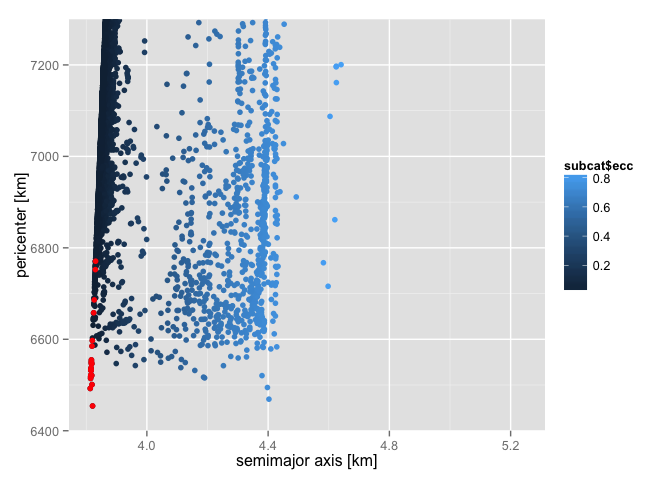
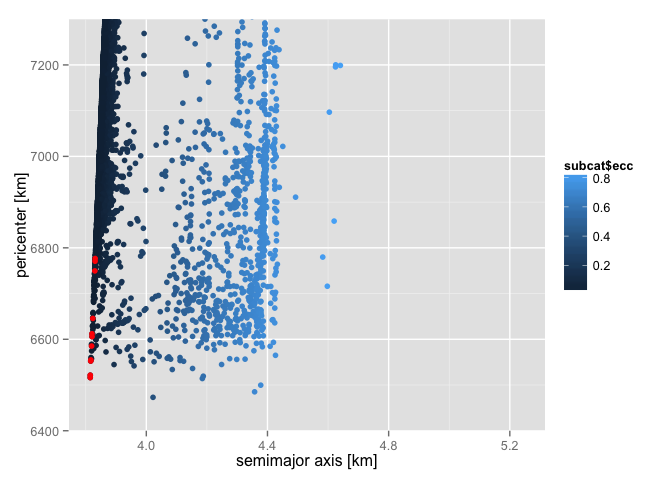
update

diff --git a/SatAnalysis.md b/SatAnalysis.md
@@ -51,13 +51,13 @@ The catalog `tle_latest.txt` is taken form space-track.org:
 
 ```
 ## 0 VANGUARD 1
-## 1 00005U 58002B   15147.38246589  .00000167  00000-0  20437-3 0  9996
-## 2 00005 034.2503 160.5335 1846720 317.2671 029.7930 10.84612969  4653
+## 1 00005U 58002B   15170.04478724  .00000352  00000-0  47355-3 0  9997
+## 2 00005 034.2454 090.7354 1846492 059.2462 317.7032 10.84627234  7118
 ## 0 VANGUARD 2
-## 1 00011U 59001A   15148.17993544  .00000483  00000-0  24104-3 0  9997
-## 2 00011 032.8754 148.0749 1469999 267.3589 075.8479 11.84944007397448
+## 1 00011U 59001A   15170.01411907  .00001030  00000-0  56263-3 0  9993
+## 2 00011 032.8679 066.2094 1468790 030.4671 337.3573 11.84984184400049
 ## =====================================================================
-## Number of objects: 15090  (no. of rwos:    45270 )
+## Number of objects: 15063  (no. of rwos:    45189 )
 ```
 
 The catalog `satcat.txt` (containing the physical parameters) comes from celestrak.com:
@@ -67,7 +67,7 @@ The catalog `satcat.txt` (containing the physical parameters) comes from celestr
 ## 1957-001B    00002  *D SPUTNIK 1                 CIS    1957-10-04  TYMSC  1958-01-03     96.1   65.0     945     227     N/A       
 ## 1957-002A    00003  *D SPUTNIK 2                 CIS    1957-11-03  TYMSC  1958-04-14    103.7   65.3    1659     211    0.0800     
 ## =====================================================================
-## Number of objects:    40666
+## Number of objects:    40696
 ```
 
 An explanation fro the variables can be found in the docs folder.
@@ -89,13 +89,13 @@ gfortran TLE2KEP.f90 -o TLE2KEP.x
 
 ```
 ## NORAD_ID       sma_meter            ecc        inc_deg       RAAN_deg       argp_deg          M_deg
-##        5    8620887.5280     0.18467200    34.25030000   160.53350000   317.26710000    29.79300000
-##       11    8127119.0581     0.14699990    32.87540000   148.07490000   267.35890000    75.84790000
-##       12    8321497.0627     0.16667160    32.90030000   329.54630000    90.77700000   288.32070000
-##       16    8817636.0510     0.20236030    34.26150000    88.22490000     9.42980000   353.90280000
-##       20    8267859.1364     0.16697420    33.34690000   282.42390000   188.42150000   168.46110000
+##        5    8620811.9400     0.18464920    34.24540000    90.73540000    59.24620000   317.70320000
+##       11    8126935.3566     0.14687900    32.86790000    66.20940000    30.46710000   337.35730000
+##       12    8321295.8205     0.16670280    32.90290000   257.84880000   198.55490000   154.63530000
+##       16    8817568.7240     0.20241200    34.26430000    31.84860000    91.78280000   291.40680000
+##       20    8267584.1866     0.16704850    33.35000000   201.84670000   308.37270000    37.79970000
 ## =====================================================================
-## Number of objects: 15090
+## Number of objects: 15063
 ```
 
 
@@ -109,7 +109,7 @@ gfortran SAT2TABLE.f90 -o SAT2TABLE.x
 ```
 ## head: satcat.fla[,1:8]: No such file or directory
 ## =====================================================================
-## Number of objects: 40666
+## Number of objects: 40696
 ```
 
 Read the data assigning the right format and merge the two catalogues (here using R)
@@ -120,19 +120,19 @@ tlecat
 ```
 
 ```
-## Source: local data frame [15,090 x 7]
+## Source: local data frame [15,063 x 7]
 ## 
 ##    NORAD_ID sma_meter       ecc inc_deg RAAN_deg argp_deg    M_deg
-## 1         5   8620888 0.1846720 34.2503 160.5335 317.2671  29.7930
-## 2        11   8127119 0.1469999 32.8754 148.0749 267.3589  75.8479
-## 3        12   8321497 0.1666716 32.9003 329.5463  90.7770 288.3207
-## 4        16   8817636 0.2023603 34.2615  88.2249   9.4298 353.9028
-## 5        20   8267859 0.1669742 33.3469 282.4239 188.4215 168.4611
-## 6        22   6969779 0.0147761 50.2828 111.7523  55.4870 305.9927
-## 7        29   7027076 0.0024662 48.3810  19.7667 255.9163 103.9007
-## 8        45   7158688 0.0261385 66.6940 207.1203 221.0796 137.0364
-## 9        46   7108647 0.0205205 66.6913 354.7749  66.5319 295.7211
-## 10       47   7131275 0.0233446 66.6670  53.0557 215.9967 142.5224
+## 1         5   8620812 0.1846492 34.2454  90.7354  59.2462 317.7032
+## 2        11   8126935 0.1468790 32.8679  66.2094  30.4671 337.3573
+## 3        12   8321296 0.1667028 32.9029 257.8488 198.5549 154.6353
+## 4        16   8817569 0.2024120 34.2643  31.8486  91.7828 291.4068
+## 5        20   8267584 0.1670485 33.3500 201.8467 308.3727  37.7997
+## 6        22   6969306 0.0147451 50.2843  14.1713 135.0238 226.2762
+## 7        29   7027014 0.0024351 48.3805 285.1428 340.0913  19.9046
+## 8        45   7158660 0.0259822 66.6930 152.1647 206.1520 152.6267
+## 9        46   7108564 0.0206027 66.6915 302.9777  51.7836 310.1621
+## 10       47   7131228 0.0231614 66.6662 354.6617 200.2600 158.9202
 ## ..      ...       ...       ...     ...      ...      ...      ...
 ```
 
@@ -144,7 +144,7 @@ satcat
 ```
 
 ```
-## Source: local data frame [34,940 x 14]
+## Source: local data frame [34,970 x 14]
 ## 
 ##    NORAD_ID                  SATNAME      INTDES        TYPE     COUNTRY
 ## 1         1 SL-1 R/B                 1957-001A   ROCKET_BOBY CIS        
@@ -174,19 +174,19 @@ subcat
 ```
 
 ```
-## Source: local data frame [12,090 x 10]
+## Source: local data frame [12,081 x 10]
 ## 
 ##    NORAD_ID sma_meter       ecc inc_deg RAAN_deg argp_deg    M_deg
-## 1         5   8620888 0.1846720 34.2503 160.5335 317.2671  29.7930
-## 2        11   8127119 0.1469999 32.8754 148.0749 267.3589  75.8479
-## 3        12   8321497 0.1666716 32.9003 329.5463  90.7770 288.3207
-## 4        16   8817636 0.2023603 34.2615  88.2249   9.4298 353.9028
-## 5        20   8267859 0.1669742 33.3469 282.4239 188.4215 168.4611
-## 6        22   6969779 0.0147761 50.2828 111.7523  55.4870 305.9927
-## 7        29   7027076 0.0024662 48.3810  19.7667 255.9163 103.9007
-## 8        45   7158688 0.0261385 66.6940 207.1203 221.0796 137.0364
-## 9        46   7108647 0.0205205 66.6913 354.7749  66.5319 295.7211
-## 10       47   7131275 0.0233446 66.6670  53.0557 215.9967 142.5224
+## 1         5   8620812 0.1846492 34.2454  90.7354  59.2462 317.7032
+## 2        11   8126935 0.1468790 32.8679  66.2094  30.4671 337.3573
+## 3        12   8321296 0.1667028 32.9029 257.8488 198.5549 154.6353
+## 4        16   8817569 0.2024120 34.2643  31.8486  91.7828 291.4068
+## 5        20   8267584 0.1670485 33.3500 201.8467 308.3727  37.7997
+## 6        22   6969306 0.0147451 50.2843  14.1713 135.0238 226.2762
+## 7        29   7027014 0.0024351 48.3805 285.1428 340.0913  19.9046
+## 8        45   7158660 0.0259822 66.6930 152.1647 206.1520 152.6267
+## 9        46   7108564 0.0206027 66.6915 302.9777  51.7836 310.1621
+## 10       47   7131228 0.0231614 66.6662 354.6617 200.2600 158.9202
 ## ..      ...       ...       ...     ...      ...      ...      ...
 ## Variables not shown: LAUNCH (date), DECAY (date), RCS (dbl)
 ```
@@ -206,7 +206,7 @@ sum(!is.na(subcat$DECAY))
 ```
 
 ```
-## [1] 23
+## [1] 11
 ```
 
 ```r
@@ -216,21 +216,21 @@ select(subcat_decay,DECAY,RCS,ecc)
 ```
 
 ```
-## Source: local data frame [23 x 3]
+## Source: local data frame [11 x 3]
 ## Groups: DECAY
 ## 
-##         DECAY     RCS       ecc
-## 1  2015-05-19  0.0210 0.0016683
-## 2  2015-05-17 20.2147 0.0138252
-## 3  2015-05-12 20.5450 0.0250272
-## 4  2015-05-20  0.0240 0.0011825
-## 5  2015-05-02  0.0300 0.0029296
-## 6  2015-05-12  0.0410 0.0017044
-## 7  2015-05-10  0.0138 0.0015881
-## 8  2015-05-05  0.0050 0.0026762
-## 9  2015-05-11  0.0107 0.0012247
-## 10 2015-05-17  0.0101 0.0014400
-## ..        ...     ...       ...
+##         DECAY      RCS       ecc
+## 1  2015-06-06   0.0260 0.0021092
+## 2  2015-06-16  10.8128 0.0001344
+## 3  2015-05-20   0.0240 0.0011825
+## 4  2015-05-31   0.0076 0.0008098
+## 5  2015-06-02  10.3890 0.0016193
+## 6  2015-06-10   0.0030 0.0018199
+## 7  2015-06-11 519.4400 0.0004397
+## 8  2015-06-10   0.0160 0.0021781
+## 9  2015-05-21  21.0860 0.0005129
+## 10 2015-05-29   0.0013 0.0018447
+## 11 2015-06-09   7.5000 0.0020785
 ```
 
 ```r
@@ -239,7 +239,7 @@ levels(subcat_decay$quantileRCS)
 ```
 
 ```
-## [1] "(0,0.1]"  "(0.1,1]"  "(1,21.1]"
+## [1] "(0,0.1]" "(0.1,1]" "(1,519]"
 ```
 
 ```r
@@ -259,7 +259,7 @@ levels(subcat_decay$quantileECC)
 
 ![](SatAnalysis_files/figure-html/decay_ECC-1.png) 
 
-We are intersted at the big satellite which also decay. So at the end, there are NA that satisfy our conditions.
+We are intersted at the big satellite which also decay. So at the end, there are 5 that satisfy our conditions.
 
 ```r
 filterd_cat <- filter(subcat_decay,RCS>1)
@@ -267,14 +267,15 @@ filterd_cat
 ```
 
 ```
-## Source: local data frame [4 x 12]
+## Source: local data frame [5 x 12]
 ## Groups: DECAY
 ## 
 ##   NORAD_ID sma_meter       ecc inc_deg RAAN_deg argp_deg    M_deg
-## 1    22254   6592020 0.0138252  6.6390 261.2522 309.4478 248.3115
-## 2    26986   6619832 0.0250272  7.1571 330.6596 300.2547 270.1524
-## 3    40588   6774256 0.0005129 51.6423 216.7813 160.8192 199.3520
-## 4    40619   6523494 0.0008840 51.6438 280.6115 127.8365 232.4708
+## 1    25063   6553314 0.0001344 34.9372 203.9770 140.8634 219.2792
+## 2    31790   6532065 0.0016193 64.4588  51.9214 259.4566 101.1117
+## 3    40312   6779608 0.0004397 51.6443 117.8307  34.1648 112.0237
+## 4    40588   6774256 0.0005129 51.6423 216.7813 160.8192 199.3520
+## 5    40668   6529794 0.0020785 81.3782 143.8770  97.6275 263.9251
 ## Variables not shown: LAUNCH (date), DECAY (date), RCS (dbl), quantileRCS
 ##   (fctr), quantileECC (fctr)
 ```
@@ -287,7 +288,7 @@ dim(subcat)
 ```
 
 ```
-## [1] 12090    10
+## [1] 12081    10
 ```
 
 ```r
@@ -295,7 +296,7 @@ sum(!is.na(subcat$ecc))
 ```
 
 ```
-## [1] 12090
+## [1] 12081
 ```
 
 ```r
@@ -304,19 +305,19 @@ select(subcat_ecc,sma_meter,ecc,DECAY,RCS)
 ```
 
 ```
-## Source: local data frame [41 x 4]
+## Source: local data frame [43 x 4]
 ## 
 ##    sma_meter       ecc DECAY     RCS
-## 1   24986473 0.7400769  <NA>  4.2354
-## 2   23976278 0.7280430  <NA> 14.6109
-## 3   12070316 0.4563298  <NA>  0.7001
-## 4   16754149 0.6066681  <NA> 11.1194
-## 5   11091657 0.4082113  <NA>  2.9670
-## 6   15903253 0.5858591  <NA> 29.7710
-## 7   13386901 0.5107791  <NA> 12.0355
-## 8   25274169 0.7440451  <NA>  6.0123
-## 9   15506002 0.5798087  <NA> 10.5452
-## 10  15385832 0.5711498  <NA>  2.9883
+## 1   22778858 0.7153005  <NA>  4.2160
+## 2   23862949 0.7276252  <NA> 14.6109
+## 3   12031911 0.4550726  <NA>  0.7001
+## 4   26287164 0.7491801  <NA>  0.5260
+## 5   16687865 0.6051916  <NA> 11.1095
+## 6   11026776 0.4048405  <NA>  2.9657
+## 7   15841238 0.5845932  <NA> 29.7445
+## 8   13279154 0.5066017  <NA> 12.0046
+## 9   10524275 0.3849404  <NA>  6.0123
+## 10  15422450 0.5772875  <NA> 10.4605
 ## ..       ...       ...   ...     ...
 ```
 
@@ -325,19 +326,19 @@ subcat_ecc
 ```
 
 ```
-## Source: local data frame [41 x 10]
+## Source: local data frame [43 x 10]
 ## 
 ##    NORAD_ID sma_meter       ecc inc_deg RAAN_deg argp_deg    M_deg
-## 1      6939  24986473 0.7400769 61.2535 270.9872  39.7788 355.6497
-## 2     11007  23976278 0.7280430 62.3356  86.7326 256.6451  19.9008
-## 3     11027  12070316 0.4563298 31.1107 291.0104 176.9034 174.6797
-## 4     18571  16754149 0.6066681  6.8681 309.0981 119.4995  32.0853
-## 5     20230  11091657 0.4082113 28.2733 339.6484 317.2041  49.7293
-## 6     20874  15903253 0.5858591  7.5070 274.1242 180.3448 179.0600
-## 7     21941  13386901 0.5107791  4.0295 327.6399 201.9644  31.5267
-## 8     22020  25274169 0.7440451 61.2457 227.7898 220.1264 352.7983
-## 9     22594  15506002 0.5798087 61.3500 220.2218 268.0896  28.6389
-## 10    22996  15385832 0.5711498 28.6764 220.5987 271.5958  38.8510
+## 1      6939  22778858 0.7153005 61.2072 267.9062  40.3523   4.6752
+## 2     11007  23862949 0.7276252 62.3233  82.4595 257.0230  19.7288
+## 3     11027  12031911 0.4550726 31.1205 259.7298 225.5541 105.8096
+## 4     12909  26287164 0.7491801 63.4895 328.5153  23.5261   6.9796
+## 5     18571  16687865 0.6051916  6.8426 291.8413 153.7337 266.3936
+## 6     20230  11026776 0.4048405 28.2476 299.2678  23.1619  36.1712
+## 7     20874  15841238 0.5845932  7.4919 254.9290 218.1220  81.0632
+## 8     21941  13279154 0.5066017  4.0393 299.6182 257.9537 328.0851
+## 9     22020  10524275 0.3849404 61.0909 215.8000 222.3177 302.0540
+## 10    22594  15422450 0.5772875 61.3520 210.4073 269.5787  28.0379
 ## ..      ...       ...       ...     ...      ...      ...      ...
 ## Variables not shown: LAUNCH (date), DECAY (date), RCS (dbl)
 ```
@@ -361,7 +362,7 @@ We are intersted at big satellite in HEO. So at the end, there are 35 that satis
 
 - eccentrycity > 0.3
 - perigee < 6600 km
-- retio cross section > 1.0
+- ratio cross section > 1.0
 
 
 ```r
@@ -373,16 +374,16 @@ filterd_cat
 ## Source: local data frame [35 x 10]
 ## 
 ##    NORAD_ID sma_meter       ecc inc_deg RAAN_deg argp_deg    M_deg
-## 1      6939  24986473 0.7400769 61.2535 270.9872  39.7788 355.6497
-## 2     11007  23976278 0.7280430 62.3356  86.7326 256.6451  19.9008
-## 3     18571  16754149 0.6066681  6.8681 309.0981 119.4995  32.0853
-## 4     20230  11091657 0.4082113 28.2733 339.6484 317.2041  49.7293
-## 5     20874  15903253 0.5858591  7.5070 274.1242 180.3448 179.0600
-## 6     21941  13386901 0.5107791  4.0295 327.6399 201.9644  31.5267
-## 7     22020  25274169 0.7440451 61.2457 227.7898 220.1264 352.7983
-## 8     22594  15506002 0.5798087 61.3500 220.2218 268.0896  28.6389
-## 9     22996  15385832 0.5711498 28.6764 220.5987 271.5958  38.8510
-## 10    25843  12410245 0.4703264  6.5812 152.3054 338.2296   7.3372
+## 1      6939  22778858 0.7153005 61.2072 267.9062  40.3523   4.6752
+## 2     11007  23862949 0.7276252 62.3233  82.4595 257.0230  19.7288
+## 3     18571  16687865 0.6051916  6.8426 291.8413 153.7337 266.3936
+## 4     20230  11026776 0.4048405 28.2476 299.2678  23.1619  36.1712
+## 5     20874  15841238 0.5845932  7.4919 254.9290 218.1220  81.0632
+## 6     21941  13279154 0.5066017  4.0393 299.6182 257.9537 328.0851
+## 7     22020  10524275 0.3849404 61.0909 215.8000 222.3177 302.0540
+## 8     22594  15422450 0.5772875 61.3520 210.4073 269.5787  28.0379
+## 9     25843  11872986 0.4473614  6.6015 112.5192  57.2791  49.5471
+## 10    26476  15309111 0.5744910 27.3871 271.9352 171.9587 202.2606
 ## ..      ...       ...       ...     ...      ...      ...      ...
 ## Variables not shown: LAUNCH (date), DECAY (date), RCS (dbl)
 ```
@@ -403,16 +404,16 @@ tmp
 ## Source: local data frame [35 x 10]
 ## 
 ##    NORAD_ID sma_meter       ecc inc_deg RAAN_deg argp_deg    M_deg
-## 1      6939  24986473 0.7400769 61.2535 270.9872  39.7788 355.6497
-## 2     11007  23976278 0.7280430 62.3356  86.7326 256.6451  19.9008
-## 3     18571  16754149 0.6066681  6.8681 309.0981 119.4995  32.0853
-## 4     20230  11091657 0.4082113 28.2733 339.6484 317.2041  49.7293
-## 5     20874  15903253 0.5858591  7.5070 274.1242 180.3448 179.0600
-## 6     21941  13386901 0.5107791  4.0295 327.6399 201.9644  31.5267
-## 7     22020  25274169 0.7440451 61.2457 227.7898 220.1264 352.7983
-## 8     22594  15506002 0.5798087 61.3500 220.2218 268.0896  28.6389
-## 9     22996  15385832 0.5711498 28.6764 220.5987 271.5958  38.8510
-## 10    25843  12410245 0.4703264  6.5812 152.3054 338.2296   7.3372
+## 1      6939  22778858 0.7153005 61.2072 267.9062  40.3523   4.6752
+## 2     11007  23862949 0.7276252 62.3233  82.4595 257.0230  19.7288
+## 3     18571  16687865 0.6051916  6.8426 291.8413 153.7337 266.3936
+## 4     20230  11026776 0.4048405 28.2476 299.2678  23.1619  36.1712
+## 5     20874  15841238 0.5845932  7.4919 254.9290 218.1220  81.0632
+## 6     21941  13279154 0.5066017  4.0393 299.6182 257.9537 328.0851
+## 7     22020  10524275 0.3849404 61.0909 215.8000 222.3177 302.0540
+## 8     22594  15422450 0.5772875 61.3520 210.4073 269.5787  28.0379
+## 9     25843  11872986 0.4473614  6.6015 112.5192  57.2791  49.5471
+## 10    26476  15309111 0.5744910 27.3871 271.9352 171.9587 202.2606
 ## ..      ...       ...       ...     ...      ...      ...      ...
 ## Variables not shown: LAUNCH (fctr), DECAY (lgl), RCS (dbl)
 ```

diff --git a/README.md b/README.md
@@ -34,7 +34,8 @@ This folder contains:
 ./download_cat_MAC.sh 1      # for MAC users
 ./download_cat_LINUX.sh 1    # for LINUX users
 ```
-and follow intructions. You need an account on [space-track.org](https://www.space-track.org).
+and follow intructions. You need an account on [space-track.org](https://www.space-track.org). 
+If it is not working, try deleting the file `cookies.txt`.
 
 
 2. To download the satellite catalog (containing the physical parameters) from celestrak.com:
@@ -42,3 +43,25 @@ and follow intructions. You need an account on [space-track.org](https://www.spa
 ./download_cat_MAC.sh 2      # for MAC users
 ./download_cat_LINUX.sh 2    # for LINUX users
 ```
+
+## Satellite Analysis outputs
+
+The `SatAnalysis.Rmd` processes the orbits for the two calatogues previously downloaded.
+It runs on R (knitr) and produces two output files:
+
+ - `orbitsat.txt`: merge the two catalogues and contains the following fields:
+   		   - NORAD_ID
+		   - semimajor axis [km]
+		   - eccentricity
+		   - inclination [deg]
+		   - right ascension of the ascending node [deg]
+		   - argument of pericenter [deg]
+		   - mean anomaly [deg]
+		   - launch date [YY-MM-DD]
+		   - decay date [YY-MM-DD]
+		   - ratio-cross-section (RCS)
+
+ - `heo_sat.txt`: a list of orbits that satisfy the following conditions:
+   		  - eccentrycity > 0.3
+		  - perigee < 6600 km
+		  - ratio-cross-section > 1.0
